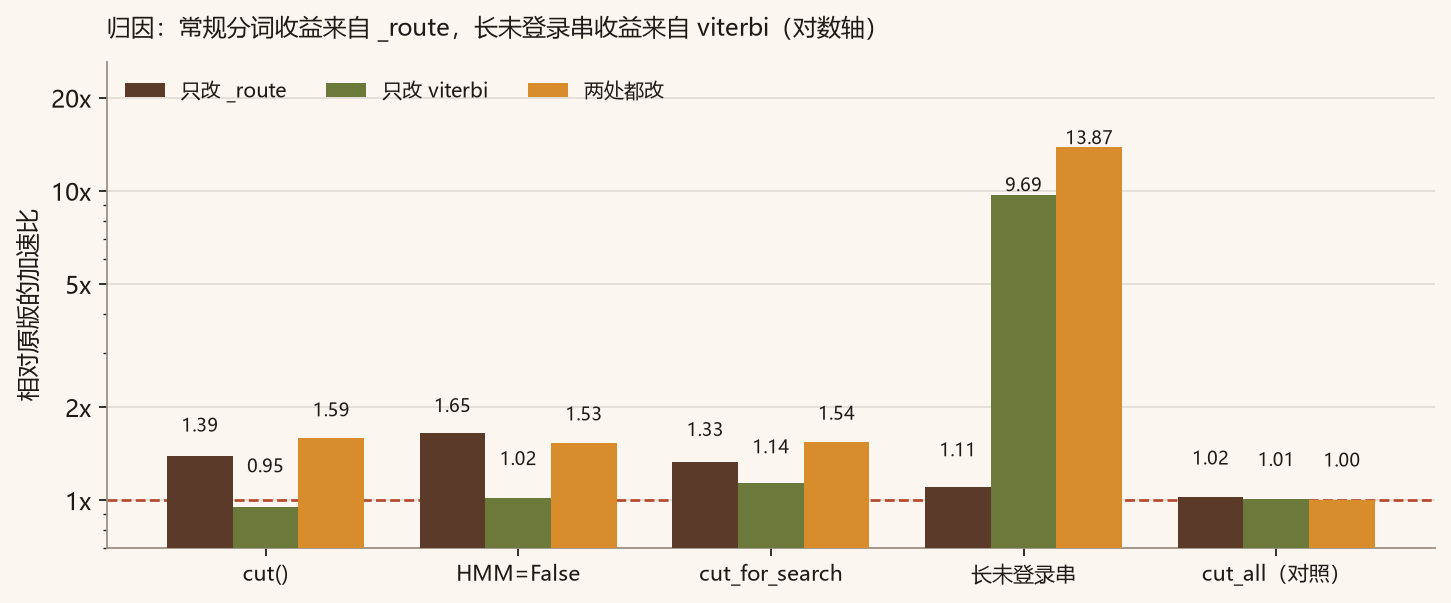
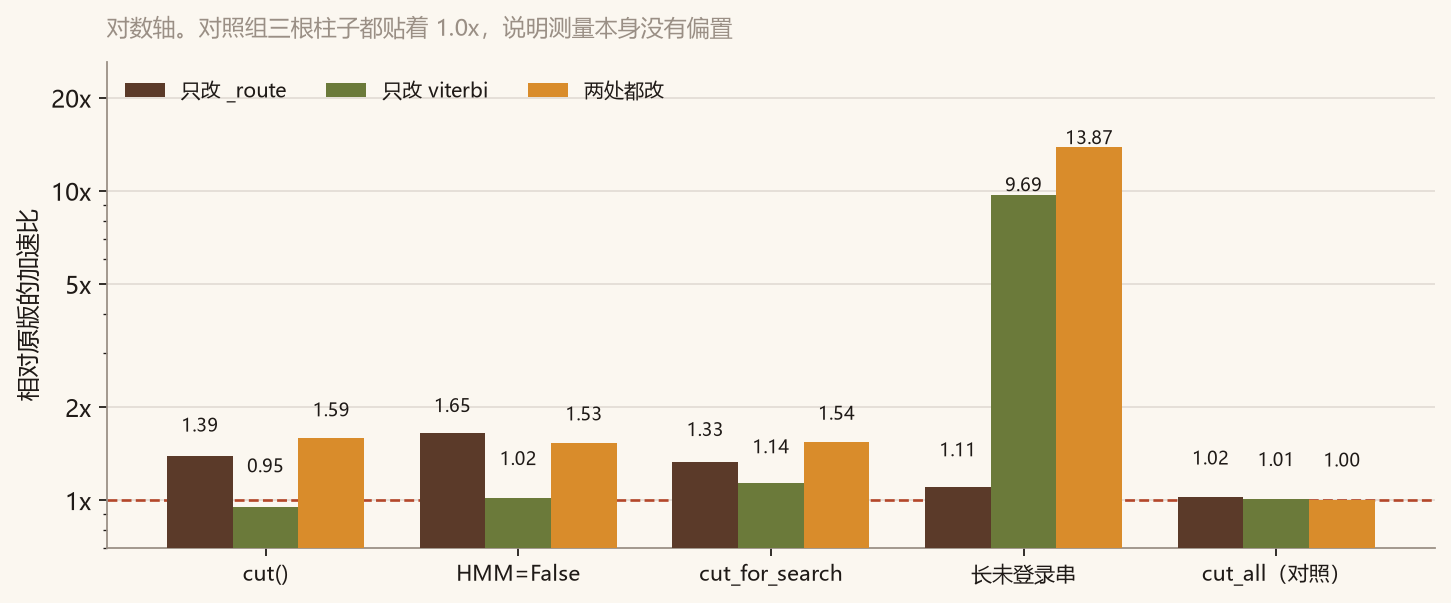
Figures: drop duplicated in-figure titles, fix label collisions
The figure titles restated what the surrounding prose already says; each
figure now carries only its own caveat (the control bar, the log axis, the
n=2 regression). Also moved the 1.0x baseline label out of the bars and off
the tick row.

Changed region(s): [[0.062, 0.0299, 0.6203, 0.0896]]

diff --git a/make_figures.py b/make_figures.py
@@ -132,8 +132,9 @@ ax.barh(y, sp, color=cols, height=0.6, zorder=3)
 ax.errorbar(sp, y, xerr=[lo, hi], fmt="none", ecolor=BROWN, elinewidth=1.4,
             capsize=3.5, zorder=4)
 ax.axvline(1.0, color=RUST, linestyle="--", linewidth=1.3, zorder=2)
-ax.text(1.0, len(names) - 0.35, L(" 1.0x 基准", " 1.0x baseline"), color=RUST,
-        fontsize=9, va="bottom")
+ax.set_ylim(-1.15, len(names) - 0.4)
+ax.text(1.0, -0.95, L("1.0x 基准", "1.0x baseline"), color=RUST,
+        fontsize=8.5, va="center", ha="center", zorder=5)
 for yi, v in zip(y, sp):
     ax.text(v + 0.22, yi, f"{v:.2f}x", va="center", fontsize=11,
             fontweight="bold", color=INK)
@@ -144,9 +145,9 @@ ax.set_xlabel(L("加速比（同进程轮内交错，15 轮，取逐轮比值中
 ax.set_xlim(0, 13.6)
 ax.grid(axis="x", color=GREY, alpha=0.25, zorder=0)
 ax.set_title(
-    L("常规分词 1.43–1.52x；长未登录串 11.6x。灰色对照组未改动，停在 1.0x",
-      "Regular text 1.43-1.52x; long unknown runs 11.6x. Grey control is untouched code"),
-    fontsize=11.5, pad=14, loc="left")
+    L("灰色 = 未改动的对照组，应停在 1.0x；误差棒为逐轮比值的全距",
+      "grey = untouched control, should sit at 1.0x; whiskers span all rounds"),
+    fontsize=10.5, pad=12, loc="left", color=GREY)
 fig.tight_layout()
 fig.savefig(os.path.join(OUT, "fig-speedup.png"), bbox_inches="tight")
 plt.close(fig)
@@ -187,7 +188,8 @@ ax2.set_title(L("加速比随长度单调上升 = O(n²)→O(n)", "speedup rises
 ax2.legend(frameon=False, fontsize=8.5)
 ax2.grid(color=GREY, alpha=0.25)
 
-fig.suptitle(L("Viterbi 改写：为什么必须做 BMES 展开版", "Viterbi rewrite: why the unrolled BMES path matters"),
+fig.suptitle(L("Viterbi：绝对耗时与加速比随观测长度的变化",
+               "Viterbi: absolute cost and speedup vs observation length"),
              fontsize=12, x=0.02, ha="left", color=INK)
 fig.tight_layout(rect=[0, 0, 1, 0.94])
 fig.savefig(os.path.join(OUT, "fig-viterbi.png"), bbox_inches="tight")
@@ -223,9 +225,9 @@ ax.set_yticklabels(["1x", "2x", "5x", "10x", "20x"])
 ax.legend(frameon=False, fontsize=9, ncol=3, loc="upper left")
 ax.grid(axis="y", color=GREY, alpha=0.25, zorder=0)
 ax.set_title(
-    L("归因：常规分词收益来自 _route，长未登录串收益来自 viterbi（对数轴）",
-      "Attribution: regular text -> _route, long unknown runs -> viterbi (log scale)"),
-    fontsize=11, pad=12, loc="left")
+    L("对数轴。对照组三根柱子都贴着 1.0x，说明测量本身没有偏置",
+      "log scale. The control's three bars sit at 1.0x, so the measurement is unbiased"),
+    fontsize=10.5, pad=12, loc="left", color=GREY)
 fig.tight_layout()
 fig.savefig(os.path.join(OUT, "fig-ablation.png"), bbox_inches="tight")
 plt.close(fig)
